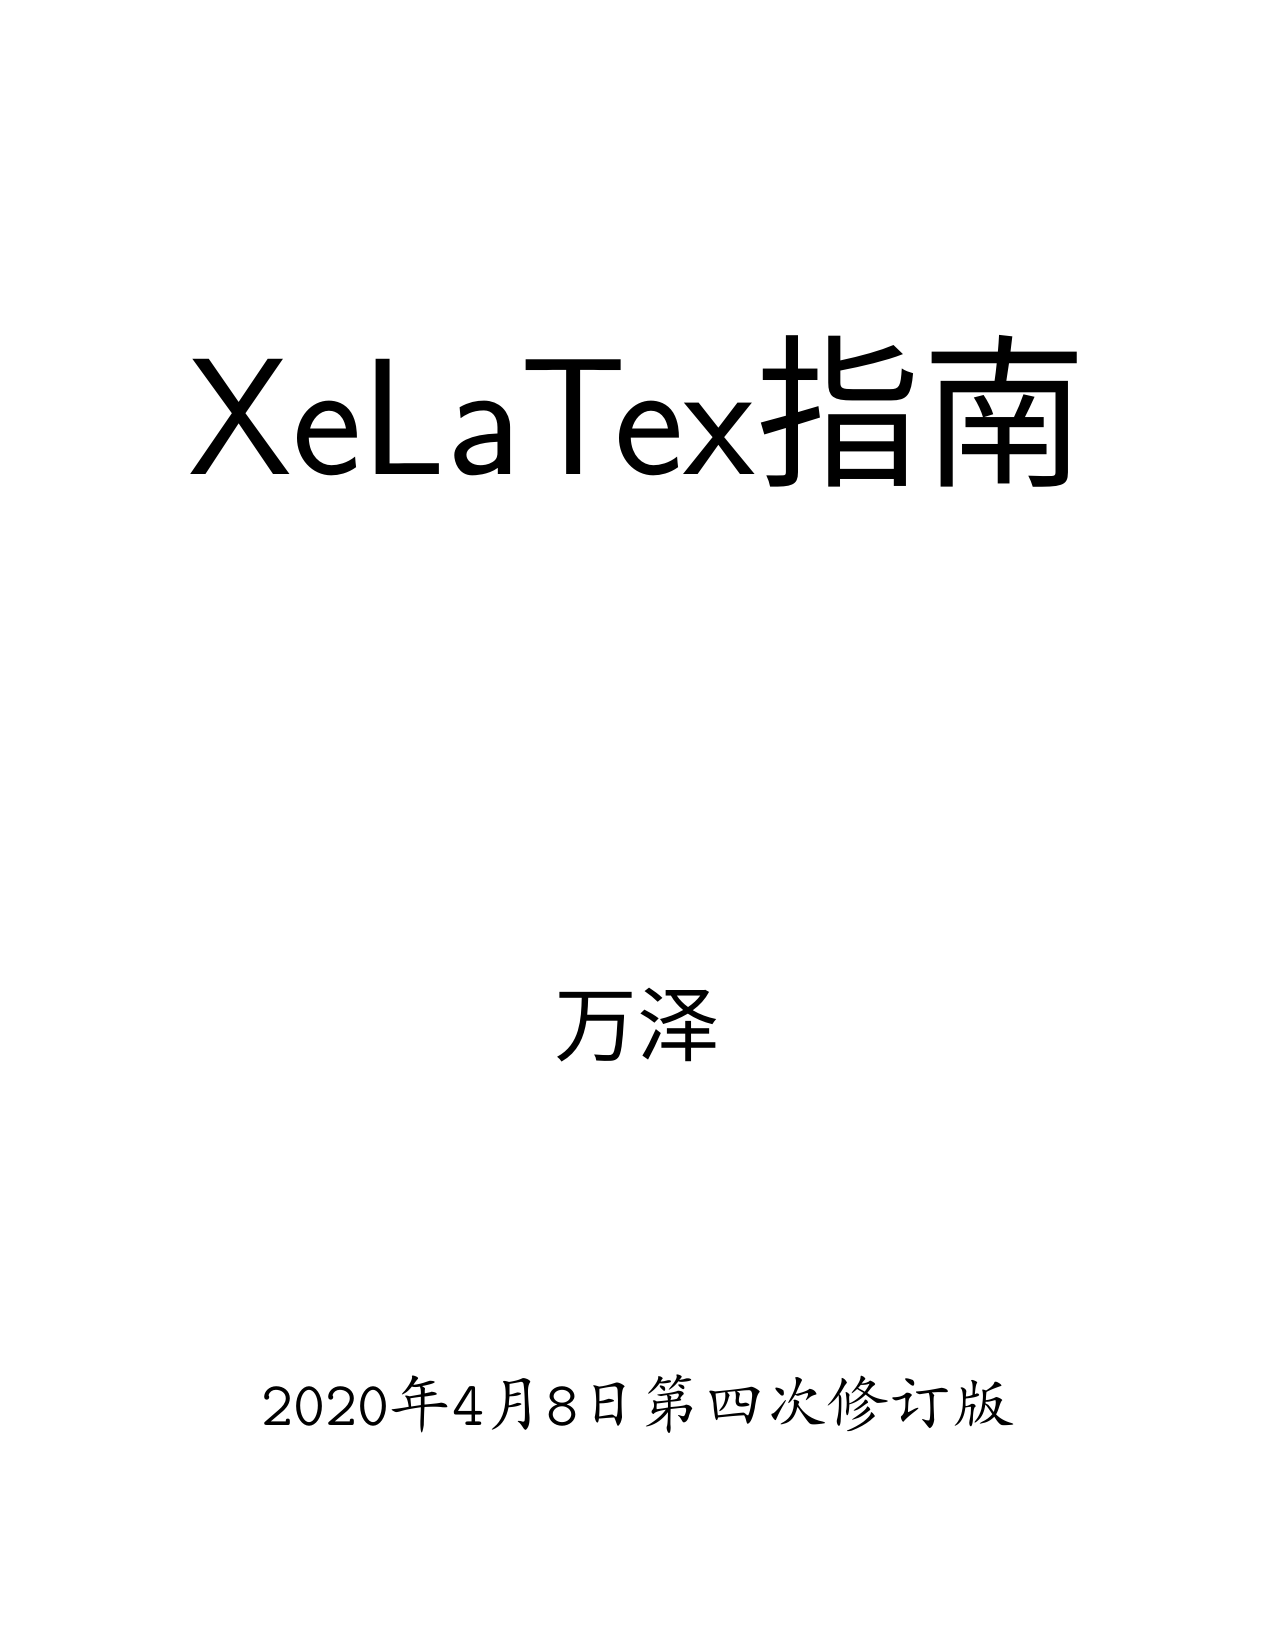
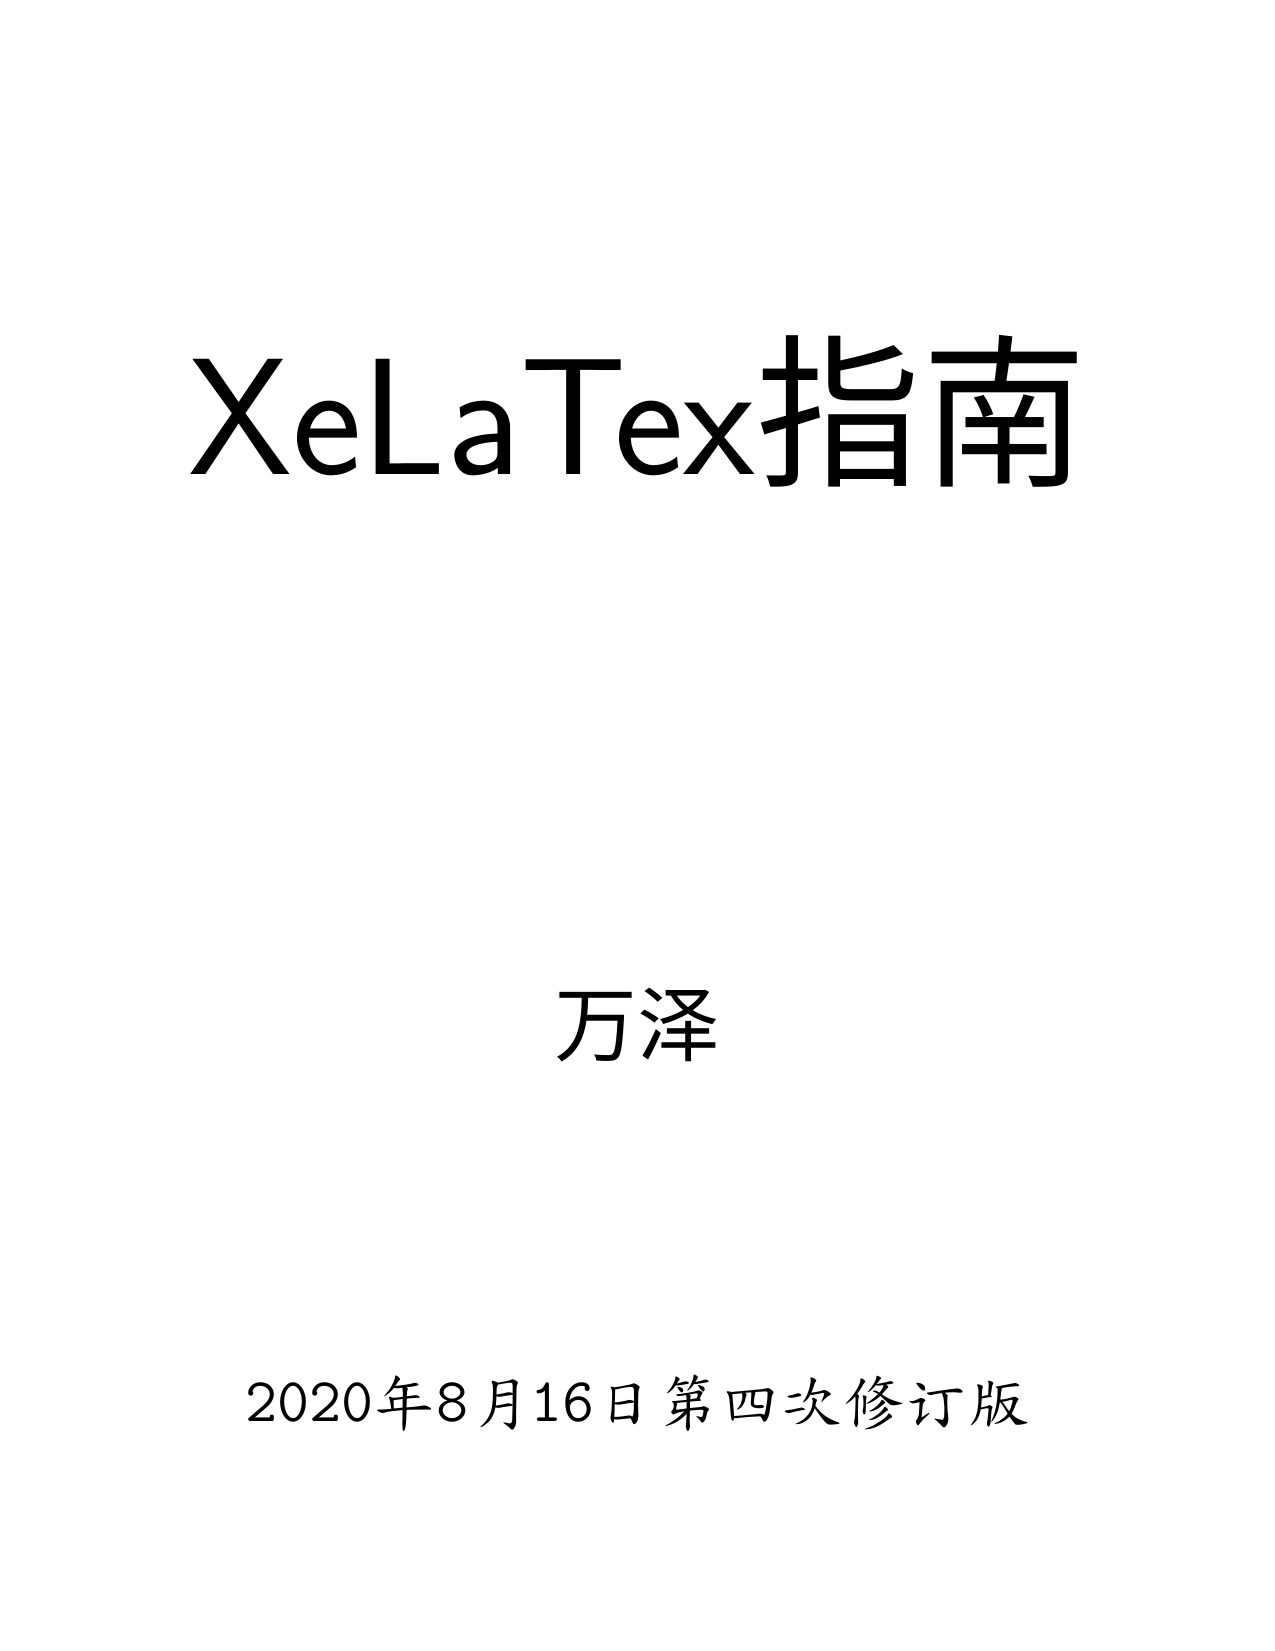
楷体更改为授权更宽松的台湾全字库楷体

Changed region(s): [[0.1835, 0.834, 0.7953, 0.8649]]

diff --git a/main.tex b/main.tex
@@ -71,9 +71,9 @@ text-micro = μ
 %中文環境
 \RequirePackage[]{xeCJK}
 \xeCJKsetup{PunctStyle=plain}
-\setCJKmainfont[ItalicFont=方正楷体简体]{思源宋体 CN}
-\setCJKsansfont{思源黑体 CN}
-\setCJKmonofont{方正楷体简体}
+\setCJKmainfont[FallBack=DejaVu Serif, ItalicFont=TW-Kai]{Source Han Serif CN}
+\setCJKsansfont[FallBack=DejaVu Sans]{Source Han Sans CN}
+\setCJKmonofont[FallBack=DejaVu Sans Mono]{TW-Kai}
 
 \RequirePackage{xltxtra} %put here to avoid some package option error. maybe this package is useless ?
 

diff --git a/book_cover.tex b/book_cover.tex
@@ -4,9 +4,9 @@
 \RequirePackage{geometry}
 \RequirePackage[CJKecglue={\hskip 0pt}]{xeCJK}
 \xeCJKsetup{PunctStyle=plain}
-\setCJKmainfont[ItalicFont=方正楷体简体]{思源宋体 CN}
-\setCJKsansfont{思源黑体 CN}
-\setCJKmonofont{方正楷体简体}
+\setCJKmainfont[ItalicFont=TW-Kai]{Source Han Serif CN}
+\setCJKsansfont{Source Han Sans CN}
+\setCJKmonofont{TW-Kai}
 
 
 \begin{document}

diff --git a/README.md b/README.md
@@ -3,6 +3,10 @@ xelatex-guide-book
 
 ## 更新日志
 
+### 20200816
+
+楷体更改为授权更宽松的 `台湾全字库正楷体` 。
+
 ### 第四次修订版
 
 1. 引入epub书籍兼容制作流程。
